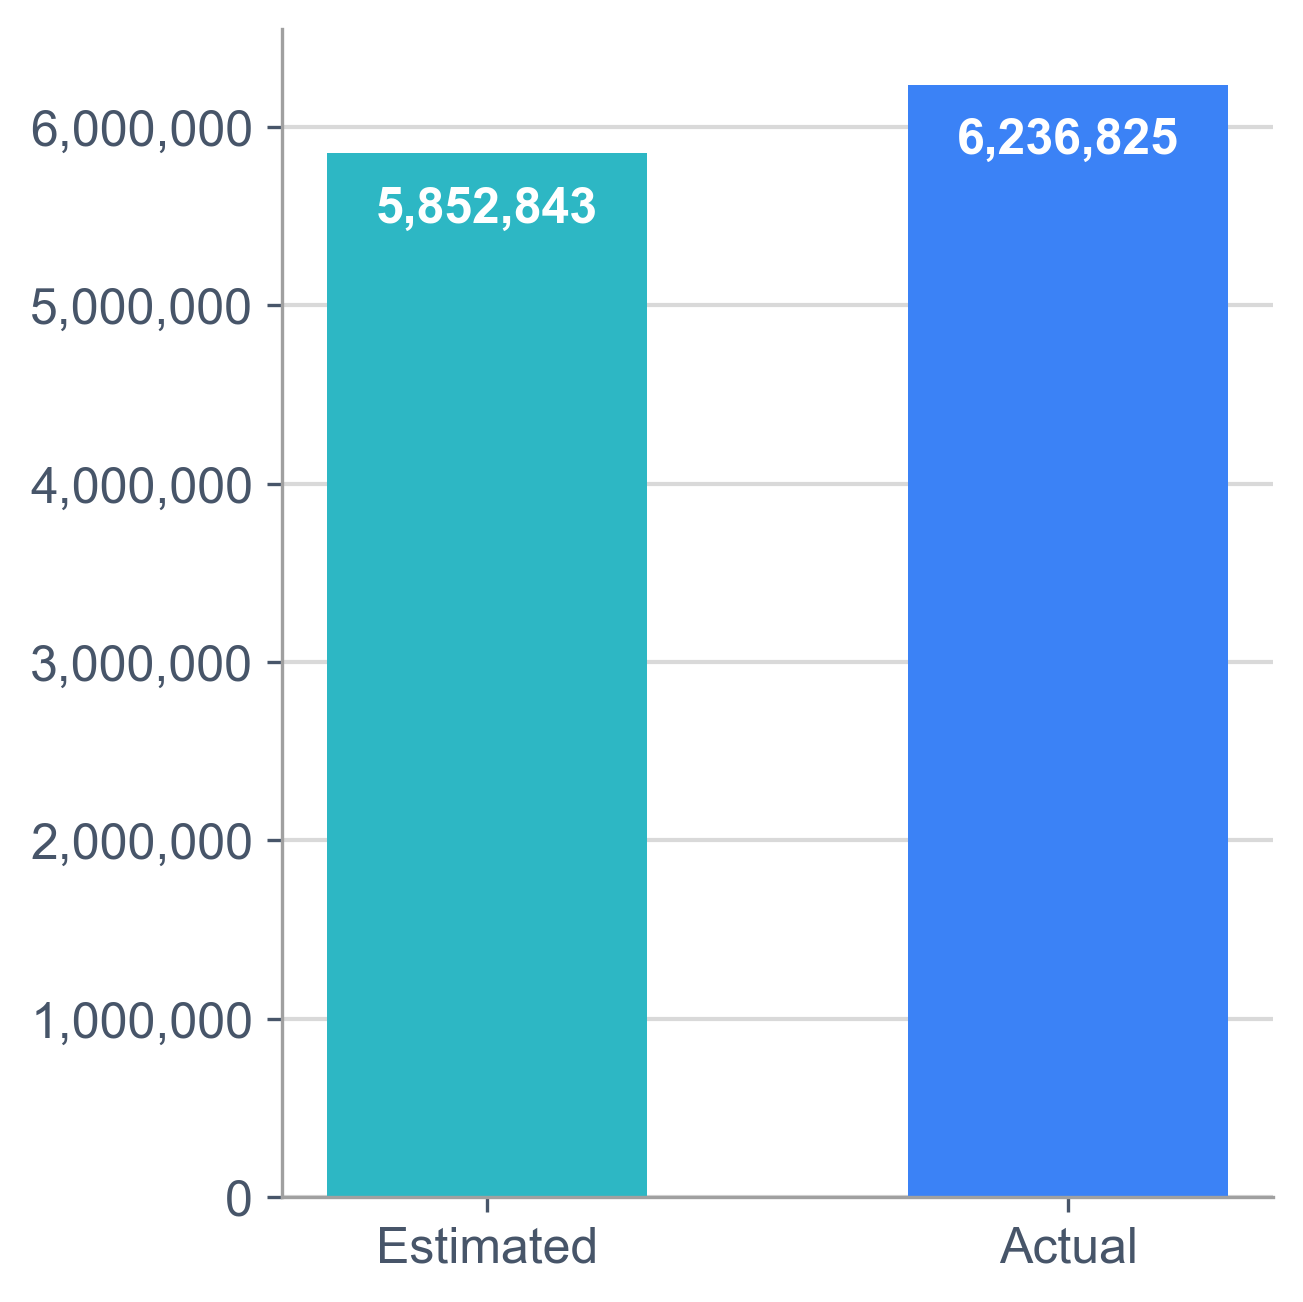
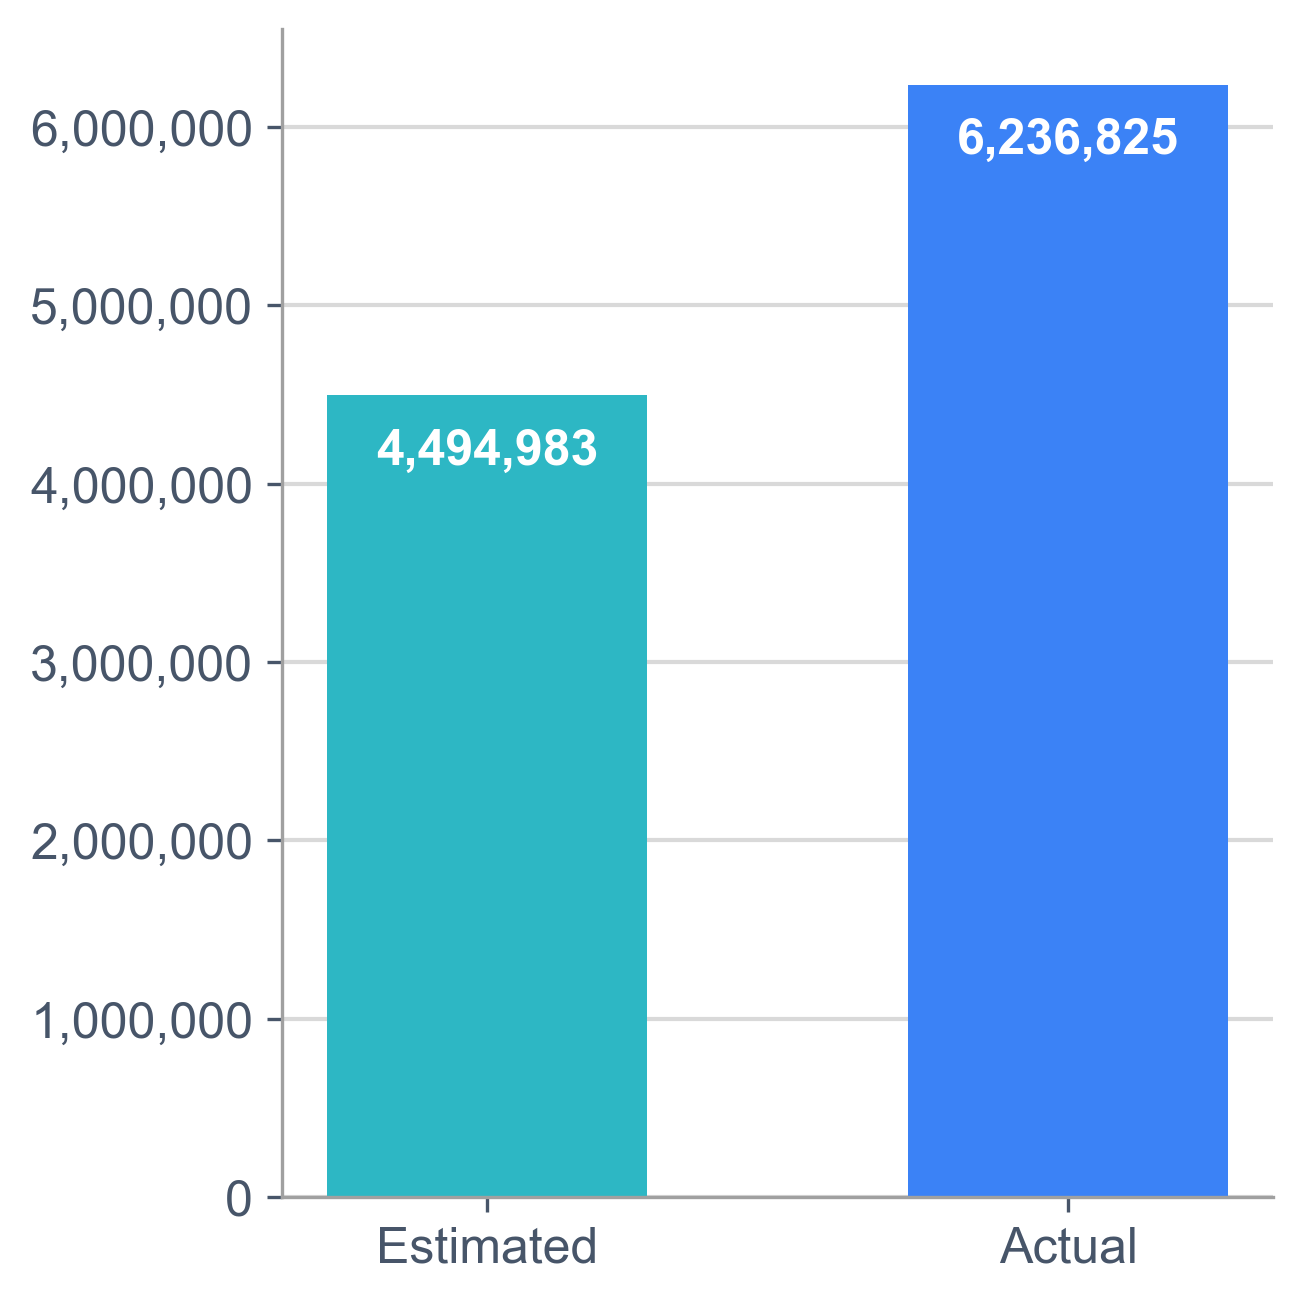
media plan exclude total rows

Changed region(s): [[0.2456, 0.0922, 0.5219, 0.3687]]

diff --git a/utils/dataextractor.py b/utils/dataextractor.py
@@ -1030,23 +1030,44 @@ class ConsolidatedDataExtractor:
             if not key:
                 continue
 
-            est_gross = float(group["Gross spend by channel / platform"].fillna(0).sum())
-            est_impressions = float(group["Estimated Impressions"].fillna(0).sum())
-            est_clicks = float(group["Estimated link clicks"].fillna(0).sum())
-            est_reach = float(group["Estimated Reach"].fillna(0).sum())
-            est_ctr_series = group["Estimated CTR"].dropna()
-            raw_ctr = coerce_float(est_ctr_series.iloc[0]) if not est_ctr_series.empty else 0.0
-            est_ctr = raw_ctr * 100 if raw_ctr and raw_ctr <= 1 else raw_ctr
+            selector_cols = [
+                "Format & placement",
+                "Targeting segment",
+                "Audience Data Source",
+                "Channel",
+            ]
+            total_candidate = group.copy()
+            for col in selector_cols:
+                if col in total_candidate.columns:
+                    total_candidate = total_candidate[total_candidate[col].isna()]
+            total_candidate = total_candidate[total_candidate["Gross spend by channel / platform"].notna()]
 
-            est_cpm_series = group["Net CPM"].dropna()
-            est_cpm = coerce_float(est_cpm_series.iloc[0]) if not est_cpm_series.empty else 0.0
-
-            est_freq_series = group["Estimated Frequency"].dropna()
-            if not est_freq_series.empty:
-                est_freq = coerce_float(est_freq_series.iloc[0])
+            if not total_candidate.empty:
+                total_row = total_candidate.iloc[-1]
+                est_gross = coerce_float(total_row.get("Gross spend by channel / platform"))
+                est_impressions = coerce_float(total_row.get("Estimated Impressions"))
+                est_clicks = coerce_float(total_row.get("Estimated link clicks"))
+                est_reach = coerce_float(total_row.get("Estimated Reach"))
+                raw_ctr = coerce_float(total_row.get("Estimated CTR"))
+                est_cpm = coerce_float(total_row.get("Net CPM"))
+                raw_freq = total_row.get("Estimated Frequency")
+                est_freq = coerce_float(raw_freq) if raw_freq is not None else safe_div(est_impressions, est_reach)
             else:
-                est_freq = safe_div(est_impressions, est_reach)
+                est_gross = float(group["Gross spend by channel / platform"].fillna(0).sum())
+                est_impressions = float(group["Estimated Impressions"].fillna(0).sum())
+                est_clicks = float(group["Estimated link clicks"].fillna(0).sum())
+                est_reach = float(group["Estimated Reach"].fillna(0).sum())
+                est_ctr_series = group["Estimated CTR"].dropna()
+                raw_ctr = coerce_float(est_ctr_series.iloc[0]) if not est_ctr_series.empty else 0.0
+                est_cpm_series = group["Net CPM"].dropna()
+                est_cpm = coerce_float(est_cpm_series.iloc[0]) if not est_cpm_series.empty else 0.0
+                est_freq_series = group["Estimated Frequency"].dropna()
+                if not est_freq_series.empty:
+                    est_freq = coerce_float(est_freq_series.iloc[0])
+                else:
+                    est_freq = safe_div(est_impressions, est_reach)
 
+            est_ctr = raw_ctr * 100 if raw_ctr and raw_ctr <= 1 else raw_ctr
             estimates[key] = {
                 "gross_spend": est_gross,
                 "impressions": est_impressions,
